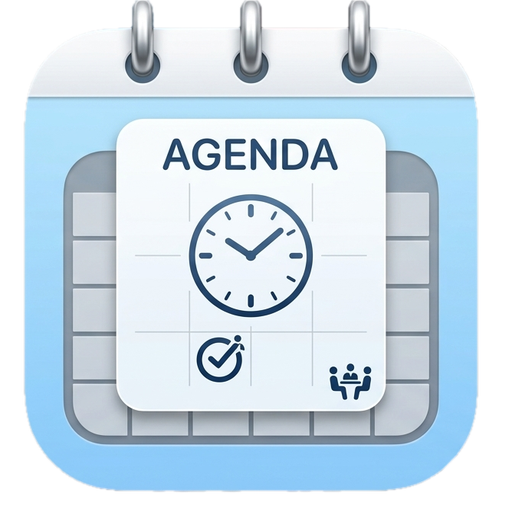
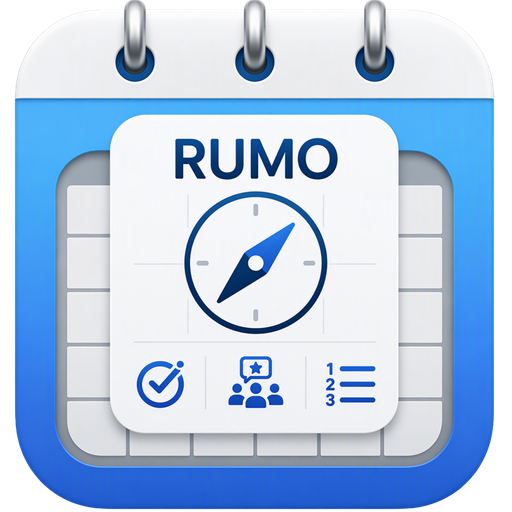
feat: rebrand para 'Rumo' — novo nome exibido + novo ícone (calendário/bússola); ícones antigos arquivados em docs/; cache v211

diff --git a/calendario-mgc.html b/calendario-mgc.html
@@ -1,5 +1,5 @@
 <!--
-  Calendário MGC
+  Rumo (antes "Calendário MGC")
   © 2026 MGC Dev — Marlon Gomes da Costa
   Projeto pessoal. Proibido uso comercial sem autorização.
   https://github.com/Magoc25/calendario
@@ -9,7 +9,7 @@
 <head>
 <meta charset="UTF-8">
 <meta name="viewport" content="width=device-width, initial-scale=1.0">
-<title>Calendário MGC</title>
+<title>Rumo</title>
 <!-- CSP — defesa em profundidade contra XSS (mesmo se o atacante injetar HTML, não consegue exfiltrar para domínio externo) -->
 <meta http-equiv="Content-Security-Policy" content="default-src 'self'; script-src 'self' 'unsafe-inline' https://cdnjs.cloudflare.com https://cdn.jsdelivr.net https://accounts.google.com https://apis.google.com; style-src 'self' 'unsafe-inline' https://fonts.googleapis.com; font-src 'self' https://fonts.gstatic.com; img-src 'self' data: blob:; connect-src 'self' https://*.supabase.co https://www.googleapis.com https://oauth2.googleapis.com https://accounts.google.com; frame-src https://accounts.google.com; worker-src 'self'; manifest-src 'self'; base-uri 'self'; form-action 'self'; object-src 'none';">
 <!-- PWA -->
@@ -18,7 +18,7 @@
 <meta name="mobile-web-app-capable" content="yes">
 <meta name="apple-mobile-web-app-capable" content="yes">
 <meta name="apple-mobile-web-app-status-bar-style" content="default">
-<meta name="apple-mobile-web-app-title" content="Cal MGC">
+<meta name="apple-mobile-web-app-title" content="Rumo">
 <link rel="apple-touch-icon" sizes="192x192" href="icon-192.png">
 <link rel="apple-touch-icon" sizes="512x512" href="icon-512.png">
 <link rel="icon" type="image/png" sizes="512x512" href="icon-512.png">
@@ -2619,7 +2619,7 @@ body.large .sidebar-year{font-size:22px}
     <div id="pixPanelMain">
       <div class="modal-title">☕ Apoiar o projeto</div>
       <p style="font-size:11.5px;color:var(--muted);margin-bottom:12px;line-height:1.6">
-        O Calendário MGC é gratuito e de código aberto. Se ele foi útil para você,
+        O Rumo é gratuito e de código aberto. Se ele foi útil para você,
         considere fazer uma contribuição via PIX para apoiar o desenvolvimento e melhorias contínuas.
       </p>
       <div style="font-size:10px;font-weight:700;color:var(--muted);text-transform:uppercase;letter-spacing:.06em;margin-bottom:6px">Escolha um valor</div>
@@ -2653,11 +2653,11 @@ body.large .sidebar-year{font-size:22px}
         <div class="pix-ty-emoji">🙏</div>
         <div class="pix-ty-title">Muito obrigado pelo apoio!</div>
         <div class="pix-ty-msg">
-          Sua contribuição é fundamental para manter o Calendário MGC gratuito,<br>
+          Sua contribuição é fundamental para manter o Rumo gratuito,<br>
           atualizado e com novas funcionalidades. <b>Você faz parte deste projeto!</b><br><br>
           Se quiser, deixe uma avaliação para ajudar outros usuários:
         </div>
-        <div style="font-size:10px;font-weight:700;color:var(--muted);text-transform:uppercase;letter-spacing:.06em;margin-bottom:8px">Como você avalia o Calendário MGC?</div>
+        <div style="font-size:10px;font-weight:700;color:var(--muted);text-transform:uppercase;letter-spacing:.06em;margin-bottom:8px">Como você avalia o Rumo?</div>
         <div class="pix-rating-stars" id="pixStars">
           <span class="pix-star" data-s="1">⭐</span>
           <span class="pix-star" data-s="2">⭐</span>
@@ -2679,7 +2679,7 @@ body.large .sidebar-year{font-size:22px}
         <div class="pix-ty-emoji">🌟</div>
         <div class="pix-ty-title">Avaliação enviada!</div>
         <div class="pix-ty-msg">
-          Obrigado por avaliar e apoiar o Calendário MGC.<br>
+          Obrigado por avaliar e apoiar o Rumo.<br>
           Suas palavras motivam o desenvolvimento contínuo.<br><br>
           <b>Até a próxima atualização!</b> — Marlon / MGC Dev
         </div>
@@ -2693,7 +2693,7 @@ body.large .sidebar-year{font-size:22px}
 <div class="overlay" id="reviewsOverlay">
   <div class="modal rev-modal">
     <button class="modal-close" id="reviewsClose">✕</button>
-    <div class="modal-title">⭐ Avaliações do Calendário MGC</div>
+    <div class="modal-title">⭐ Avaliações do Rumo</div>
     <div id="revSummary" class="rev-summary"></div>
     <div id="revPatrons"></div>
     <div class="rev-list" id="revList"></div>
@@ -5788,7 +5788,7 @@ document.addEventListener('keydown',e=>{
   const SLIDES=[
     {
       icon:'📅',
-      title:'Bem-vindo ao Calendário MGC',
+      title:'Bem-vindo ao Rumo',
       body:'Seu organizador pessoal completo —<br><b>gratuito</b>, funciona <b>offline</b> e não precisa de conta.',
       extra:`<div style="display:flex;gap:8px;justify-content:center;flex-wrap:wrap;margin-top:16px">
         <span style="padding:4px 14px;border-radius:20px;border:1.5px solid var(--accent);color:var(--accent);font-size:11px;font-weight:700">✓ Gratuito</span>

diff --git a/sw.js b/sw.js
@@ -1,12 +1,12 @@
 /* ═══════════════════════════════════════════════════════
-   Calendário MGC — Service Worker v2.6.3
+   Rumo (antes "Calendário MGC") — Service Worker v2.6.3
    Responsável por:
    1. Cache offline (arquivos do app)
    2. Notificações de alertas em segundo plano
    3. Periodic Background Sync (Android Chrome)
 ═══════════════════════════════════════════════════════ */
 
-const CACHE_NAME = 'cal-mgc-v210';
+const CACHE_NAME = 'cal-mgc-v212';
 const DB_NAME = 'cal-mgc-sw';
 const DB_VERSION = 1;
 const STORE_ALERTS = 'pending_alerts';